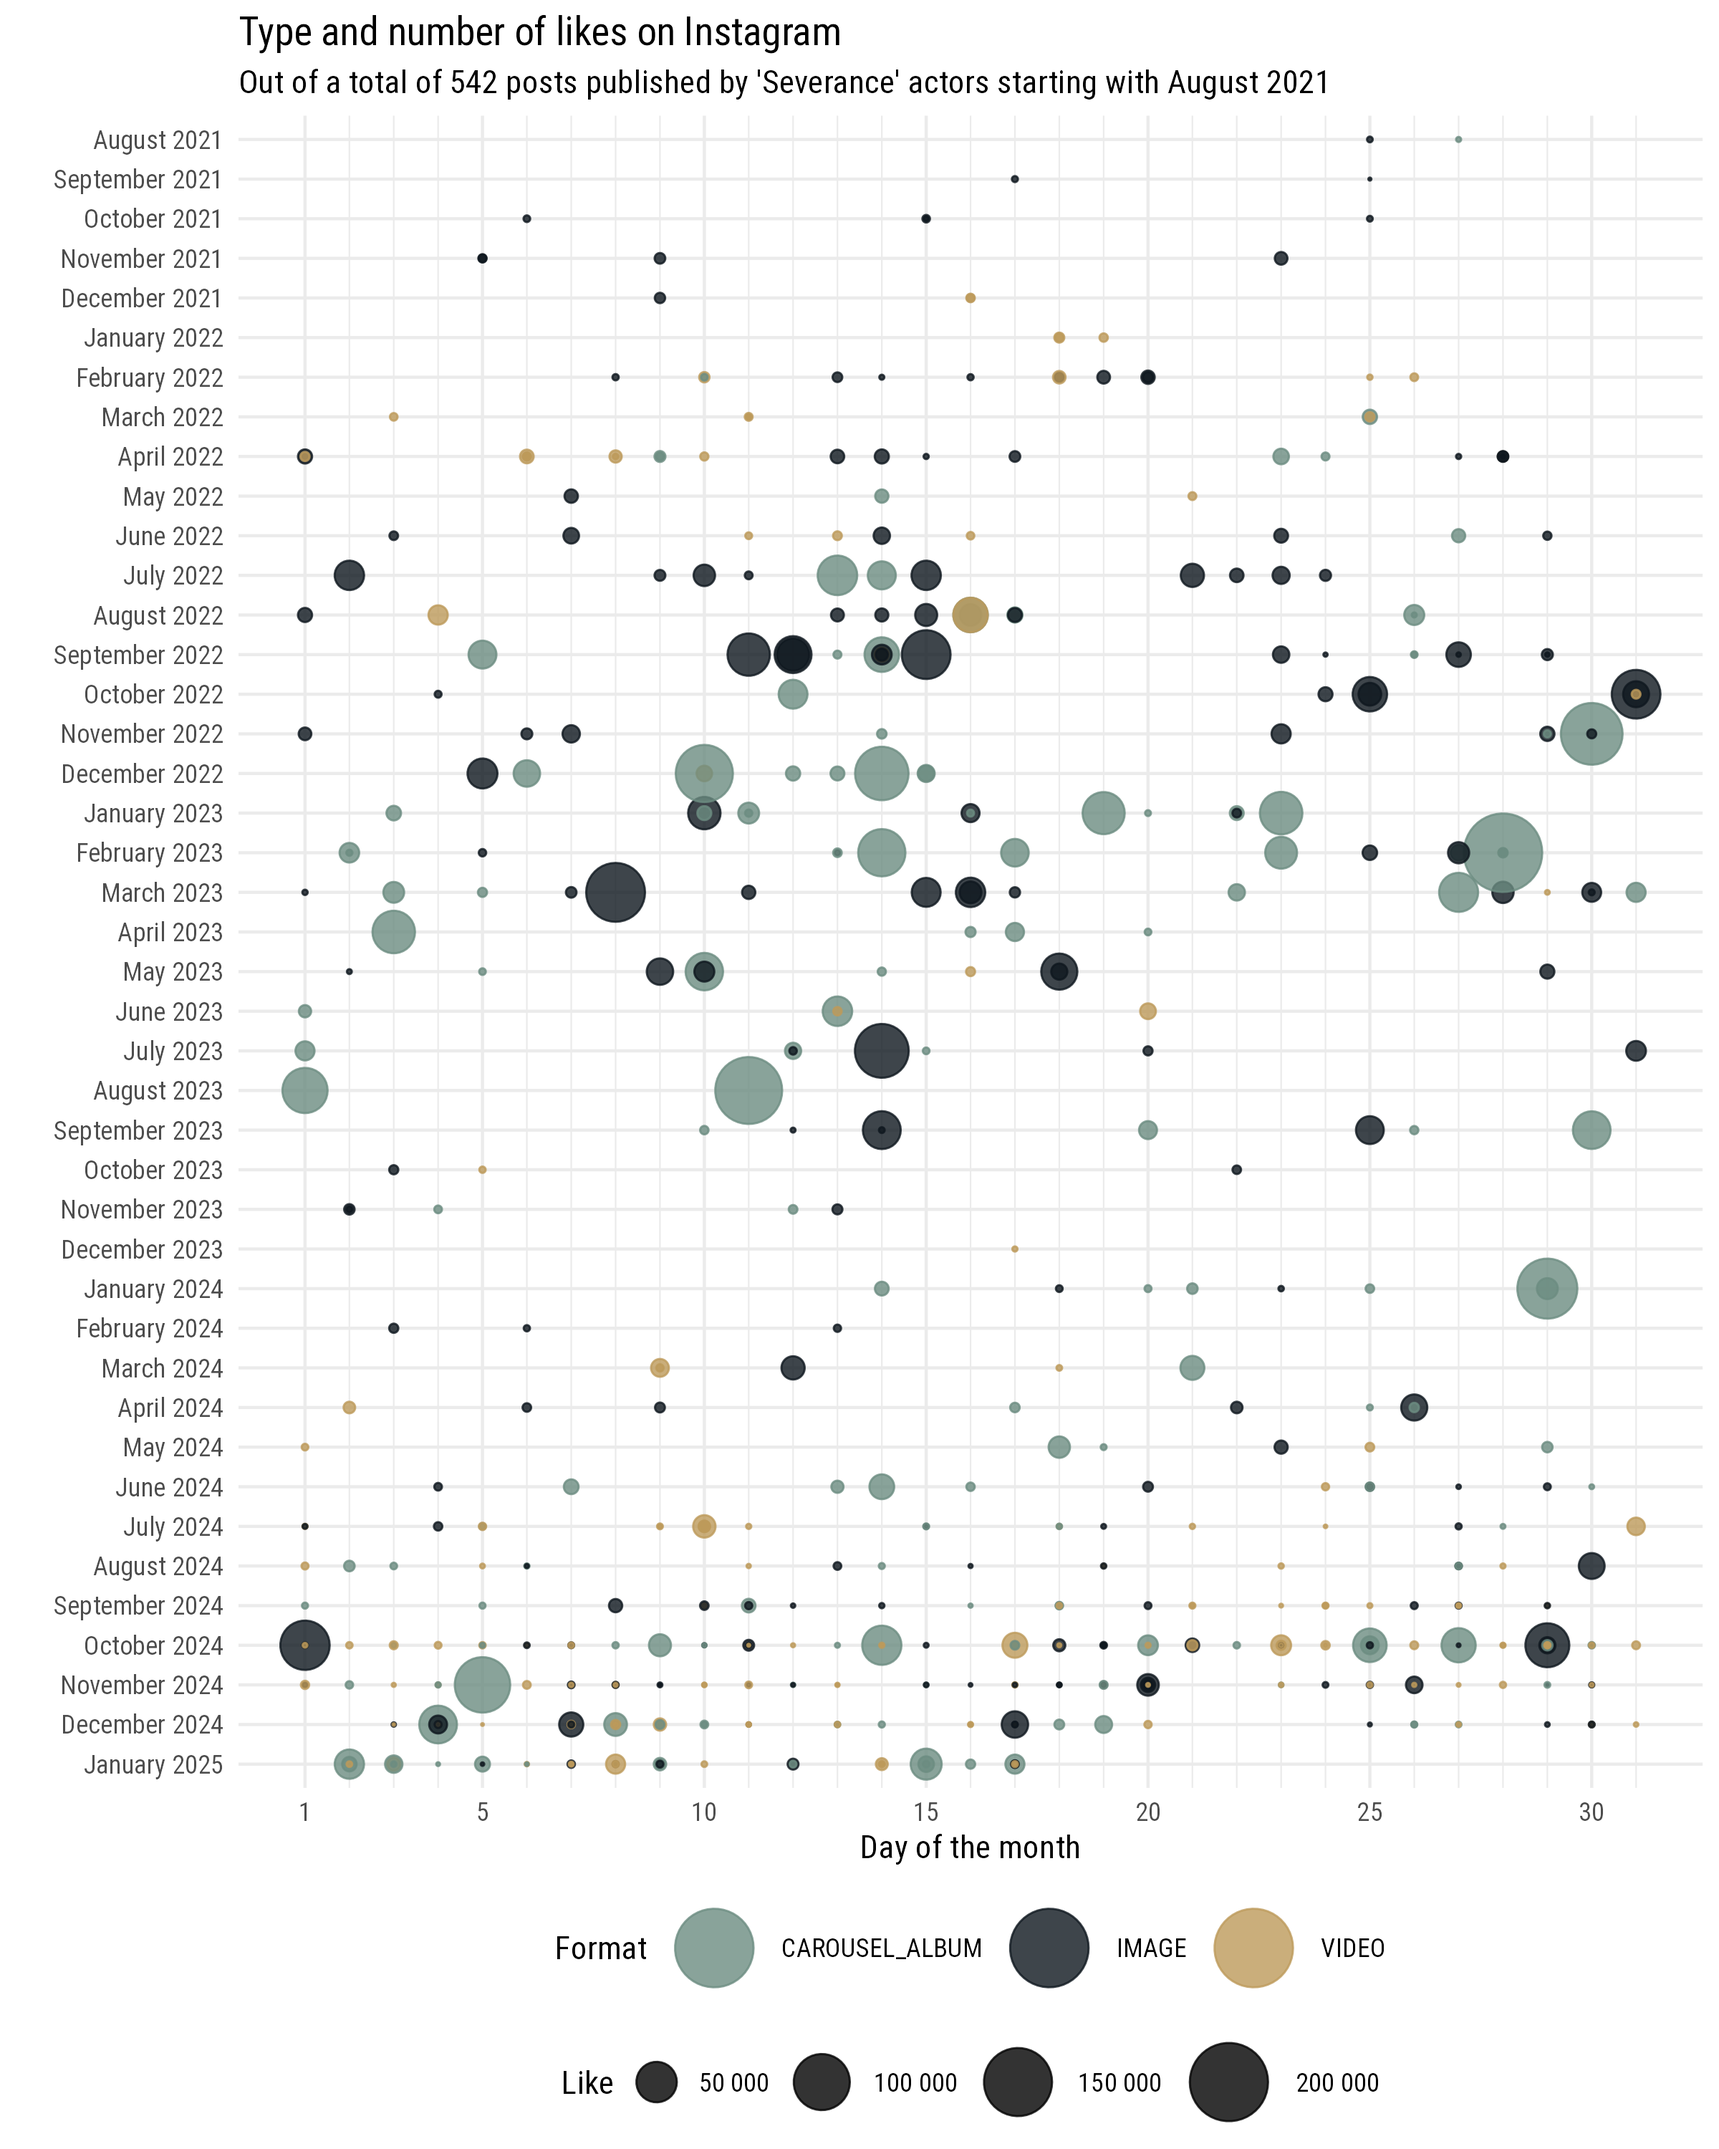
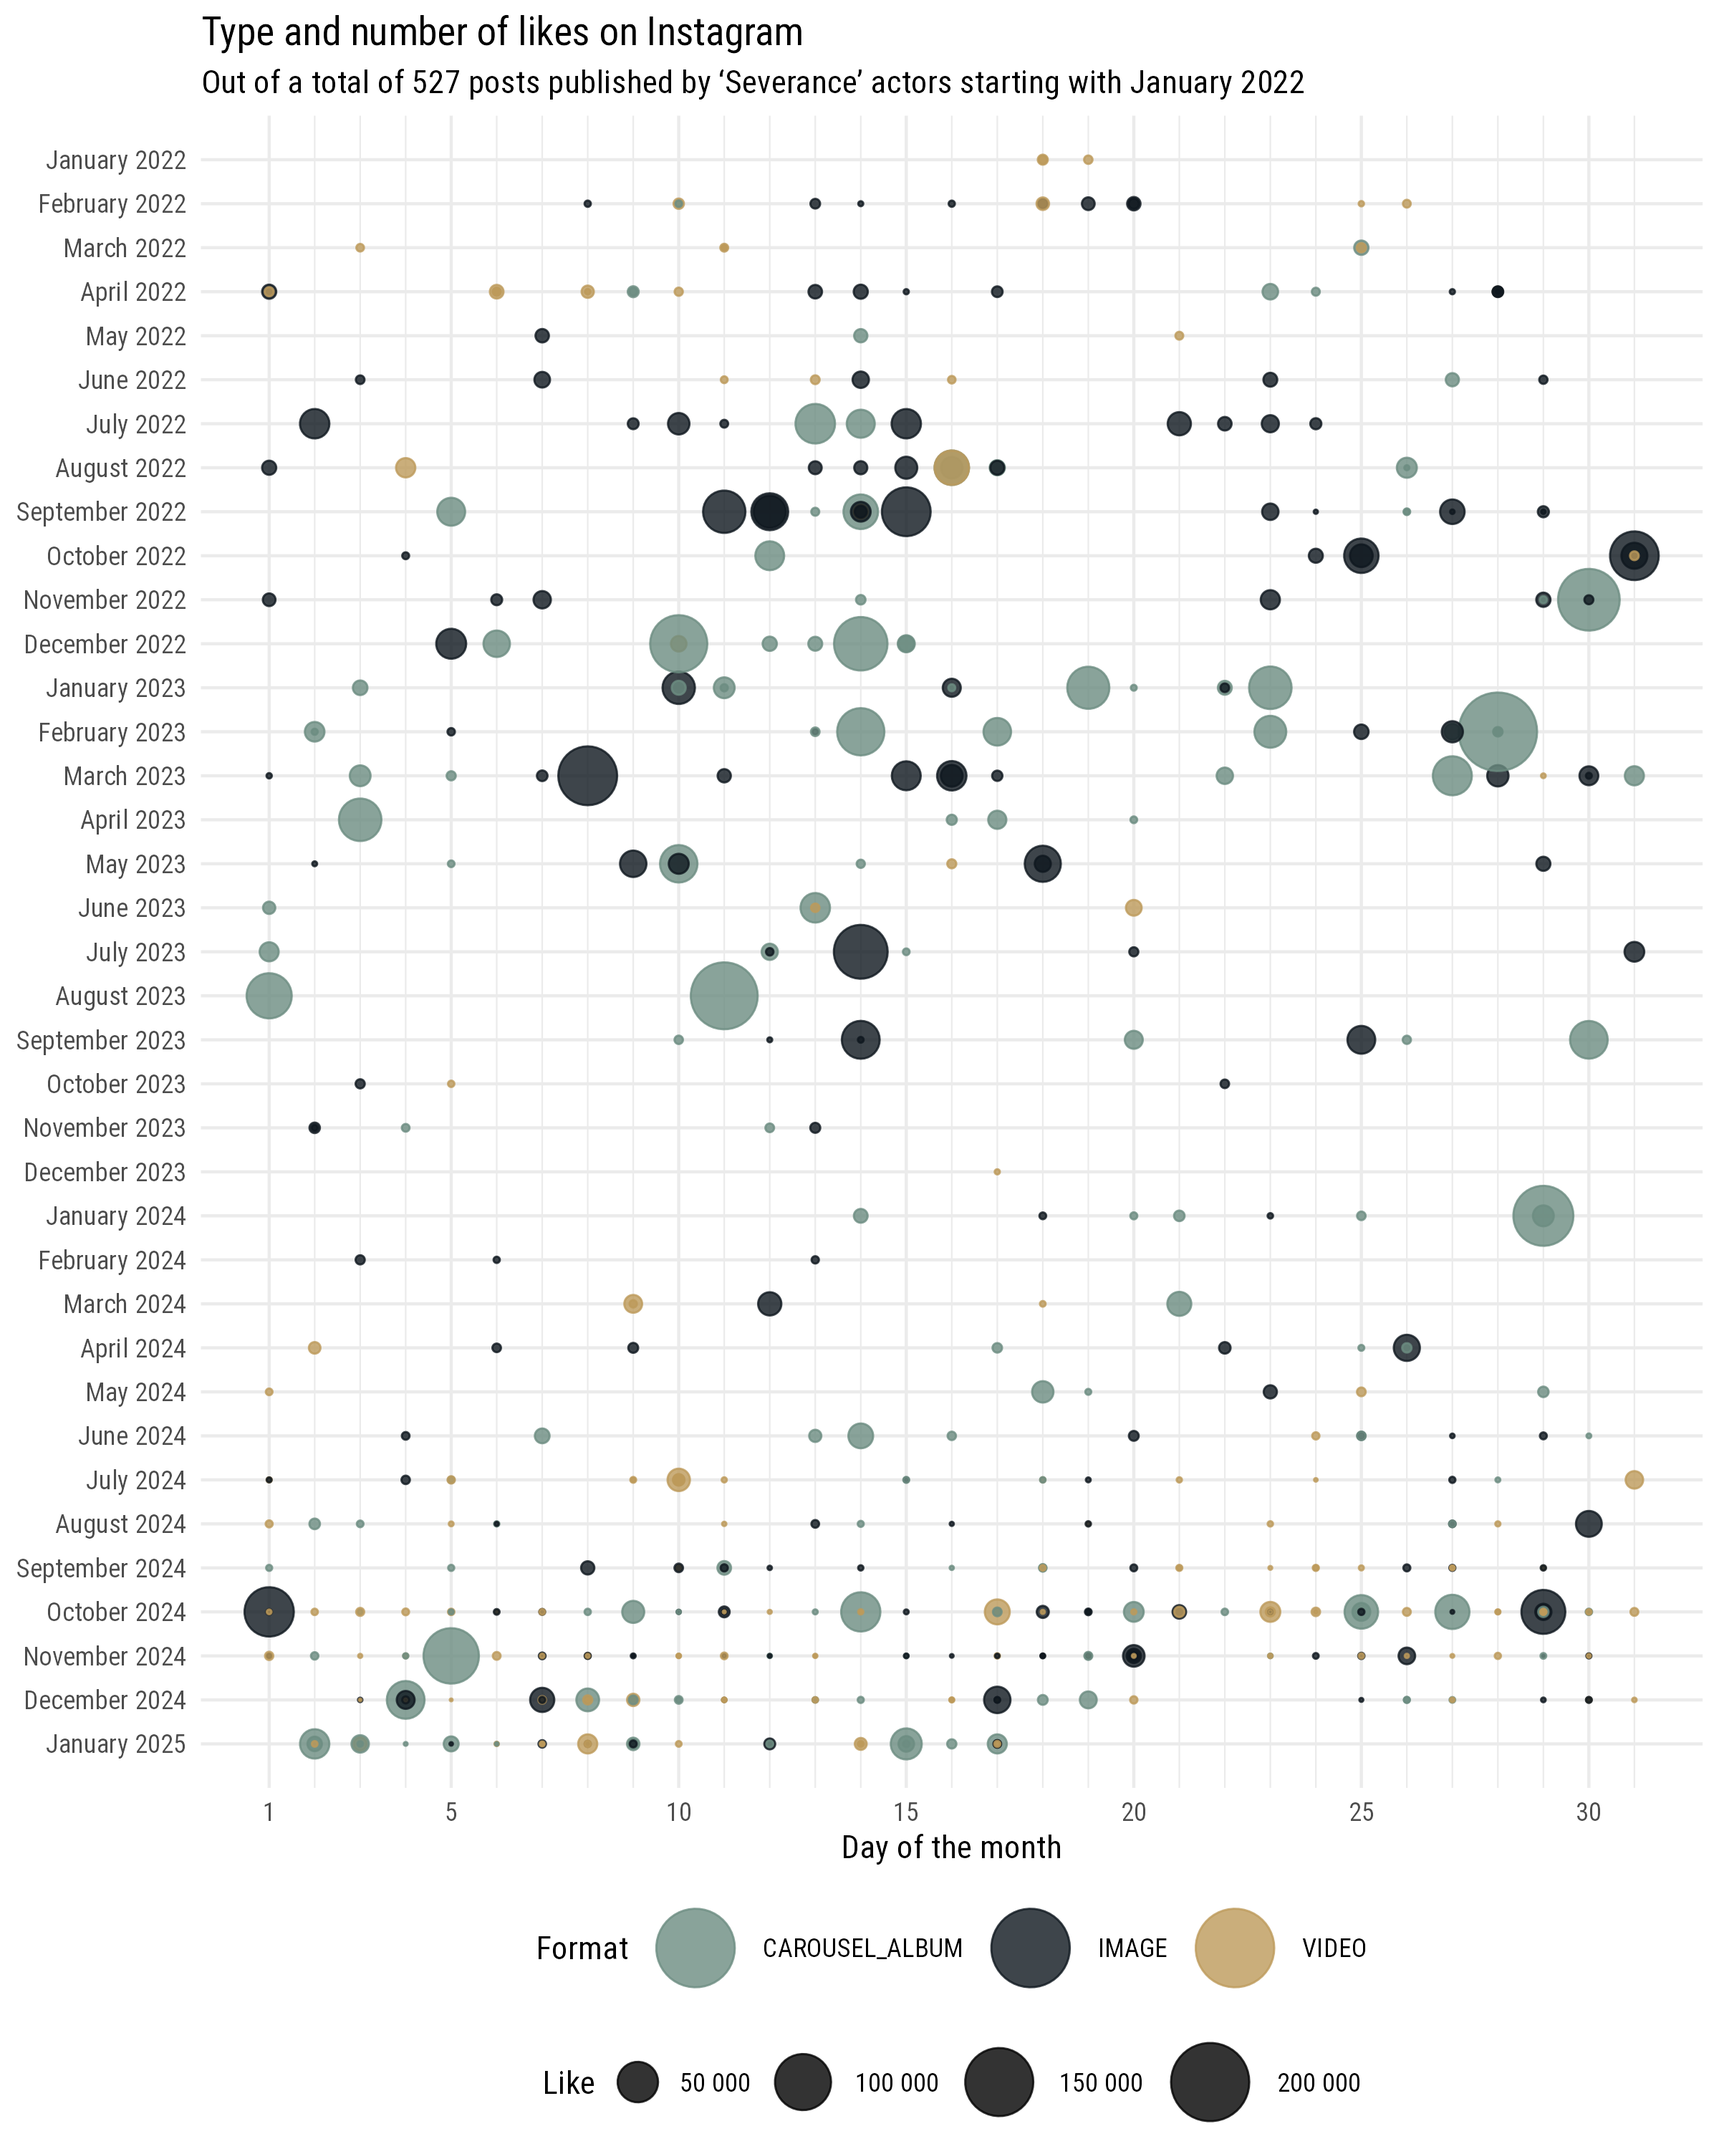
update with more data

diff --git a/content/post/2025-01-19-severance_launch_on_instagram/index.html b/content/post/2025-01-19-severance_launch_on_instagram/index.html
@@ -272,7 +272,7 @@ media_df &lt;- purrr::map(
     if (fs::file_exists(current_filename)==FALSE) {
       current_media_df &lt;- cc_get_instagram_bd_user_media(
         ig_username = current_username,
-        max_pages = 4 # 4 pages, as each page has 25 posts
+        max_pages = 10 # 4 pages, as each page has 25 posts
       )
       # dropping thumbnail and media url, as they are attached to my user and anyway stop working soon
       readr::write_csv(x = current_media_df |&gt; 
@@ -287,7 +287,7 @@ media_df &lt;- purrr::map(
 </div>
 <div id="step-4-check-out-what-they-post" class="section level2">
 <h2>Step 4: check out what they post</h2>
-<p>So here we are, with about 100 posts per user, or much less for those who post infrequently. As you see, retrieving 100 posts lets us go back in time just a couple of months for a couple of users, but all the way back to 2015 for others!</p>
+<p>So here we are, with about 250 posts per user, or much less for those who post infrequently. As you see, retrieving 250 posts lets us go back in time less than a year for a few users, but all the way back to 2011 their earlier post for others!</p>
 <pre class="r"><code>usernames_ordered_df &lt;- cast_ig_df |&gt; 
   dplyr::select(username)
 
@@ -342,24 +342,24 @@ usernames_ordered_df |&gt;
 <tbody>
 <tr class="odd">
 <td align="left">mradamscott</td>
-<td align="right">100</td>
-<td align="left">2022-07-02</td>
+<td align="right">250</td>
+<td align="left">2020-06-28</td>
 <td align="left">2025-01-14</td>
-<td align="right">51</td>
-<td align="right">42</td>
-<td align="right">7</td>
-<td align="right">93</td>
+<td align="right">77</td>
+<td align="right">141</td>
+<td align="right">32</td>
+<td align="right">243</td>
 <td align="right">7</td>
 </tr>
 <tr class="even">
 <td align="left">brittle</td>
-<td align="right">100</td>
-<td align="left">2018-08-01</td>
+<td align="right">159</td>
+<td align="left">2011-10-23</td>
 <td align="left">2025-01-17</td>
-<td align="right">28</td>
-<td align="right">49</td>
-<td align="right">23</td>
-<td align="right">88</td>
+<td align="right">29</td>
+<td align="right">103</td>
+<td align="right">27</td>
+<td align="right">147</td>
 <td align="right">12</td>
 </tr>
 <tr class="odd">
@@ -386,46 +386,46 @@ usernames_ordered_df |&gt;
 </tr>
 <tr class="odd">
 <td align="left">surefineokay</td>
-<td align="right">100</td>
-<td align="left">2024-06-25</td>
-<td align="left">2025-01-17</td>
-<td align="right">33</td>
-<td align="right">28</td>
-<td align="right">39</td>
-<td align="right">61</td>
-<td align="right">39</td>
+<td align="right">250</td>
+<td align="left">2023-08-01</td>
+<td align="left">2025-01-18</td>
+<td align="right">82</td>
+<td align="right">60</td>
+<td align="right">108</td>
+<td align="right">144</td>
+<td align="right">106</td>
 </tr>
 <tr class="even">
 <td align="left">yuluminati</td>
-<td align="right">100</td>
-<td align="left">2024-09-18</td>
-<td align="left">2025-01-17</td>
-<td align="right">6</td>
-<td align="right">35</td>
-<td align="right">59</td>
-<td align="right">41</td>
-<td align="right">59</td>
+<td align="right">250</td>
+<td align="left">2024-03-21</td>
+<td align="left">2025-01-18</td>
+<td align="right">31</td>
+<td align="right">90</td>
+<td align="right">129</td>
+<td align="right">121</td>
+<td align="right">129</td>
 </tr>
 <tr class="odd">
 <td align="left">dichenlachman</td>
-<td align="right">100</td>
-<td align="left">2018-05-25</td>
+<td align="right">194</td>
+<td align="left">2013-04-05</td>
 <td align="left">2025-01-17</td>
-<td align="right">1</td>
-<td align="right">56</td>
-<td align="right">43</td>
-<td align="right">89</td>
+<td align="right">2</td>
+<td align="right">132</td>
+<td align="right">60</td>
+<td align="right">183</td>
 <td align="right">11</td>
 </tr>
 <tr class="even">
 <td align="left">mchernus</td>
-<td align="right">100</td>
-<td align="left">2020-08-29</td>
+<td align="right">250</td>
+<td align="left">2018-04-29</td>
 <td align="left">2024-12-17</td>
-<td align="right">26</td>
-<td align="right">65</td>
-<td align="right">9</td>
-<td align="right">96</td>
+<td align="right">46</td>
+<td align="right">188</td>
+<td align="right">16</td>
+<td align="right">246</td>
 <td align="right">4</td>
 </tr>
 <tr class="odd">
@@ -503,13 +503,13 @@ usernames_ordered_df |&gt;
 <tbody>
 <tr class="odd">
 <td align="left">mradamscott</td>
-<td align="right">17</td>
-<td align="left">2022-07-13</td>
+<td align="right">51</td>
+<td align="left">2021-11-20</td>
 <td align="left">2025-01-14</td>
+<td align="right">23</td>
+<td align="right">18</td>
 <td align="right">10</td>
-<td align="right">4</td>
-<td align="right">3</td>
-<td align="right">14</td>
+<td align="right">48</td>
 <td align="right">3</td>
 </tr>
 <tr class="even">
@@ -547,25 +547,25 @@ usernames_ordered_df |&gt;
 </tr>
 <tr class="odd">
 <td align="left">surefineokay</td>
-<td align="right">6</td>
-<td align="left">2024-07-10</td>
+<td align="right">7</td>
+<td align="left">2024-06-10</td>
 <td align="left">2025-01-17</td>
 <td align="right">NA</td>
+<td align="right">4</td>
 <td align="right">3</td>
-<td align="right">3</td>
-<td align="right">3</td>
+<td align="right">4</td>
 <td align="right">3</td>
 </tr>
 <tr class="even">
 <td align="left">yuluminati</td>
-<td align="right">2</td>
-<td align="left">2024-10-13</td>
-<td align="left">2024-11-18</td>
+<td align="right">7</td>
+<td align="left">2024-04-28</td>
+<td align="left">2025-01-18</td>
 <td align="right">1</td>
-<td align="right">1</td>
-<td align="right">NA</td>
+<td align="right">4</td>
 <td align="right">2</td>
-<td align="right">NA</td>
+<td align="right">5</td>
+<td align="right">2</td>
 </tr>
 <tr class="odd">
 <td align="left">dichenlachman</td>
@@ -644,35 +644,35 @@ usernames_ordered_df |&gt;
 <tr class="odd">
 <td align="left"><a href="https://www.instagram.com/p/CkYytSauDYf/">2022-10-31</a></td>
 <td align="left">mradamscott</td>
-<td align="right">74 332</td>
+<td align="right">74 336</td>
 <td align="right">1 374</td>
 <td align="left">Filming has begun on …</td>
 </tr>
 <tr class="even">
 <td align="left"><a href="https://www.instagram.com/p/CgShChDvom_/">2022-07-21</a></td>
 <td align="left">brittle</td>
-<td align="right">14 765</td>
+<td align="right">14 767</td>
 <td align="right">176</td>
 <td align="left">we all went to high s…</td>
 </tr>
 <tr class="odd">
 <td align="left"><a href="https://www.instagram.com/p/CpLCV4_LSgj/">2023-02-27</a></td>
 <td align="left">dichenlachman</td>
-<td align="right">11 953</td>
+<td align="right">11 955</td>
 <td align="right">128</td>
 <td align="left">Had an wonderful time…</td>
 </tr>
 <tr class="even">
 <td align="left"><a href="https://www.instagram.com/p/DE1WIJzt_O6/">2025-01-15</a></td>
 <td align="left">patriciaarquette</td>
-<td align="right">5 803</td>
-<td align="right">195</td>
+<td align="right">5 846</td>
+<td align="right">196</td>
 <td align="left">#severance appletv #g…</td>
 </tr>
 <tr class="odd">
 <td align="left"><a href="https://www.instagram.com/reel/C9PdKgAOIt3/">2024-07-10</a></td>
 <td align="left">tramell.tillman</td>
-<td align="right">2 714</td>
+<td align="right">2 716</td>
 <td align="right">213</td>
 <td align="left">Let the countdown beg…</td>
 </tr>
@@ -698,11 +698,11 @@ usernames_ordered_df |&gt;
 <td align="left">Here comes the offici…</td>
 </tr>
 <tr class="odd">
-<td align="left"><a href="https://www.instagram.com/p/DBEa8MOJK9R/">2024-10-13</a></td>
+<td align="left"><a href="https://www.instagram.com/p/C8cyYWFpEqM/">2024-06-20</a></td>
 <td align="left">yuluminati</td>
-<td align="right">228</td>
-<td align="right">51</td>
-<td align="left">🙏🙏🙏 one of the greate…</td>
+<td align="right">355</td>
+<td align="right">24</td>
+<td align="left">Had a great time 🙏🙏🙏 …</td>
 </tr>
 </tbody>
 </table>
@@ -724,7 +724,7 @@ usernames_ordered_df |&gt;
   )) |&gt; 
   rename(`Like` = like_count,
          `Format` = media_type) |&gt; 
-  filter(created_time&gt;lubridate::as_datetime(&quot;2021-07-31&quot;))
+  filter(created_time&gt;=lubridate::as_datetime(&quot;2022-01-01&quot;))
 
 instagram_bubble_gg &lt;- media_gg_df |&gt; 
   mutate(month_year = paste(month, year, sep = &quot; &quot;)) |&gt;
